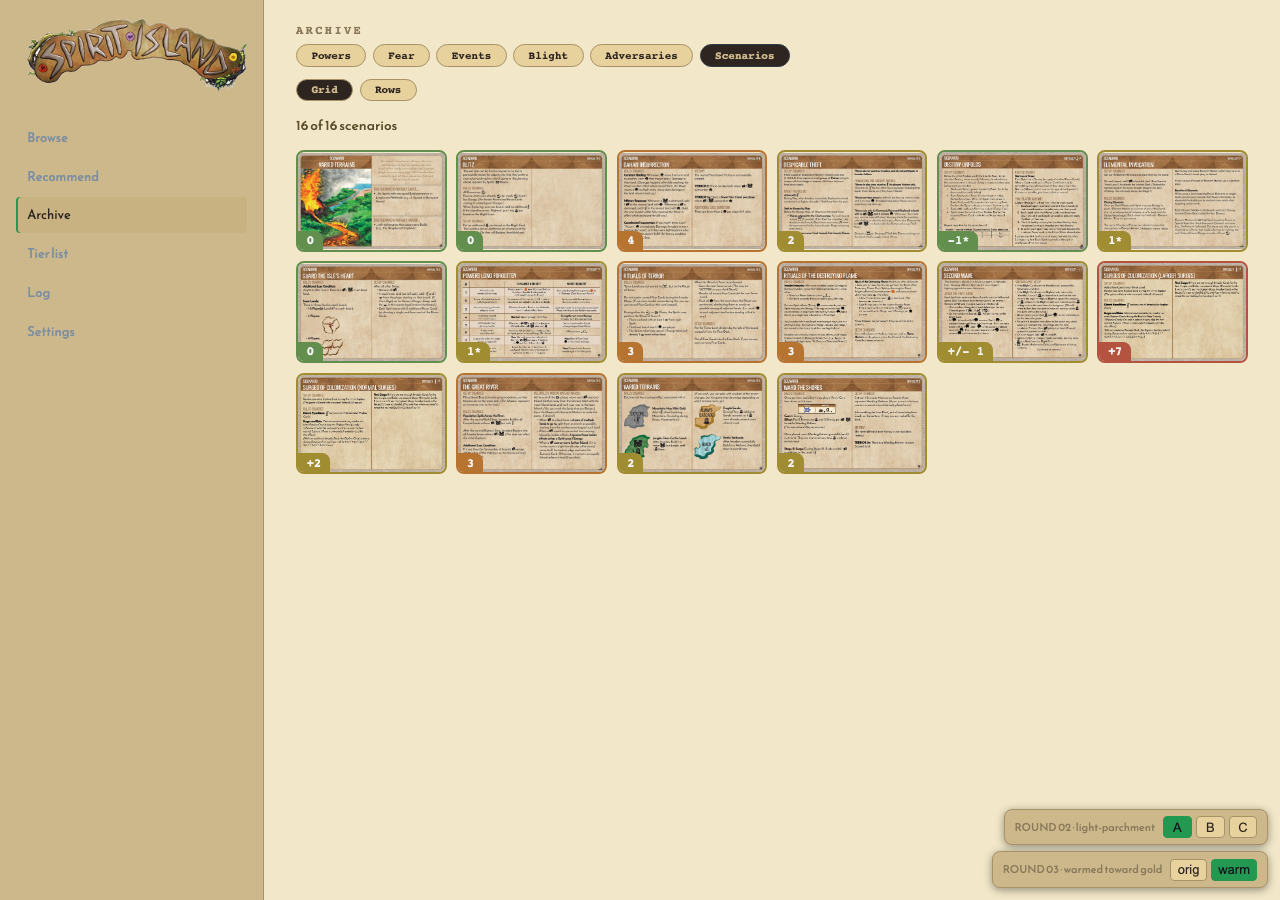
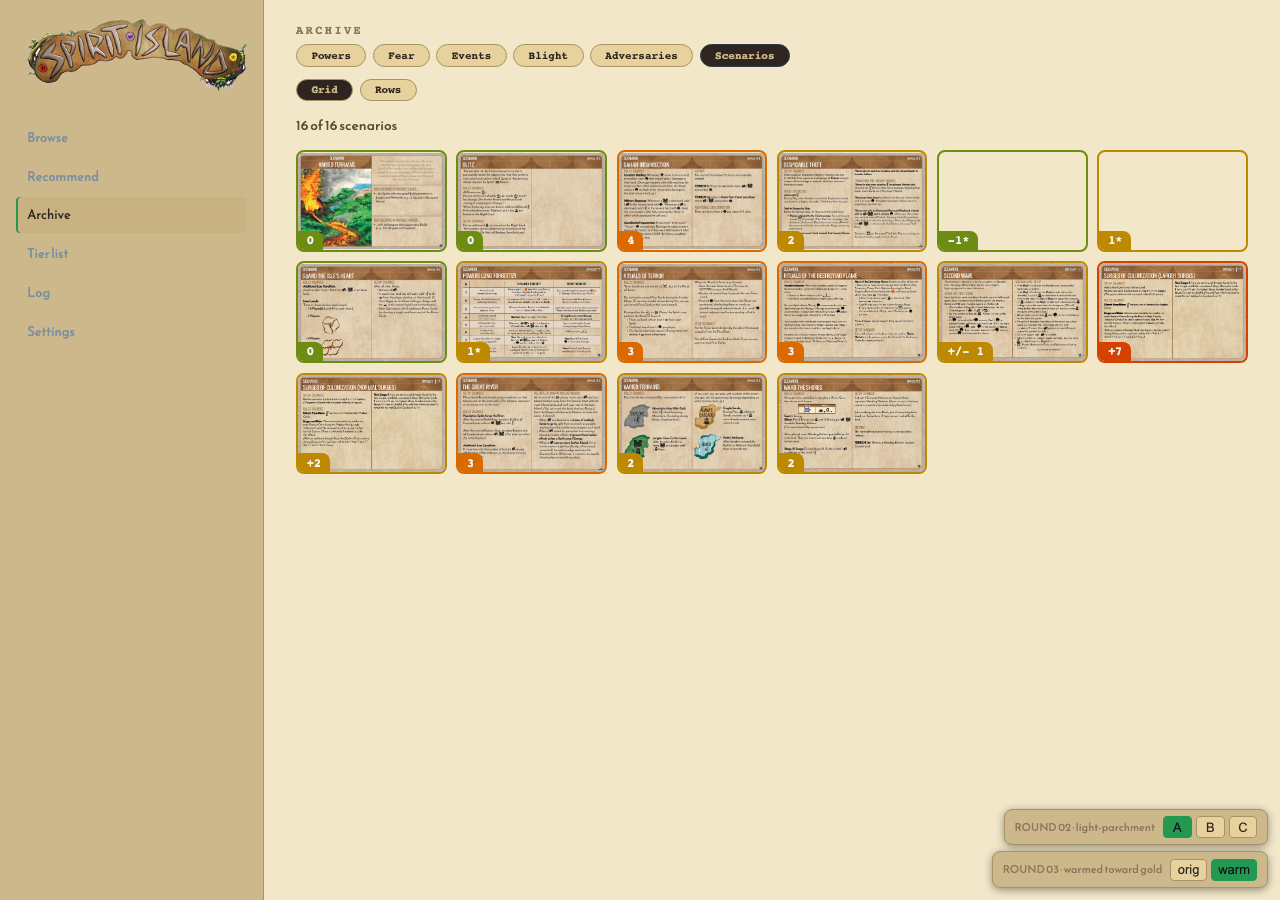
island-retheme #03: push the warm chip re-tint further (v3)
v1 (22% blend toward gold) and v2 (a luminance-preserving fixed push) both
came back too subtle to read as a real change. A bolder multiplicative grade
tried in between actually broke distinctness (blight-positive and
ramping-economy clamped to the same hex). v3 keeps the push additive but much
larger (R+50/G+15/B-50), verified collision-free by direct computation
against every palette in the app, and confirmed visible via zoomed-crop
comparison rather than eyeballing full-page screenshots.

diff --git a/src/components/tagColors.ts b/src/components/tagColors.ts
@@ -39,21 +39,33 @@ export const EXPANSION_COLOR: Record<string, string> = {
 
 /**
  * ROUND 03 (island-retheme) — THROWAWAY: the owner's reaction to the light-parchment theme
- * (ticket 02) was that the chip systems don't feel aligned with it. Judgment values, every entry
- * the same colour mixed 22% toward the vibe sheet's `gold` (`#eecb73`) — warms and slightly
- * desaturates each hue without moving its rank in the family, so the seven stay pairwise-distinct
- * (verified in `chipRoundColors.test.ts`) without becoming a fresh, unrelated palette. Delete this
- * and every other `*_WARM` map/getter below, plus `chips-${variant}` call sites, when the round
- * ships or is abandoned (see `ChipRound.tsx`'s docblock for the full teardown list).
+ * (ticket 02) was that the chip systems don't feel aligned with it. **v3** — two earlier attempts
+ * didn't land: v1 blended every hue 22% toward the vibe sheet's `gold` (`#eecb73`) and the owner
+ * reported it as indistinguishable from the shipped palette at a glance; a v2 fixed push
+ * (`R+28/G+6/B-26`, tuned to hold luminance dead level) was still too shy. A *multiplicative*
+ * bold grade tried in between (×1.35 red, ×0.5 blue) actually broke — `blight-positive` and
+ * `ramping-economy` clamp to the exact same hex once boosted that hard, since their only
+ * difference is a red channel that both saturate past 255. v3 keeps the *additive* push (order-
+ * preserving, no clamp-collision risk) but goes considerably further: `R+50 / G+15 / B-50`,
+ * clamped to 0-255. Verified by direct computation, not just by eye: zero collisions against every
+ * shipped palette, the tier rainbow (both variants), `PANEL_COLOR`, and this map's own six systems
+ * (the six `#...` values a naive dedup flags as "duplicate" are `TAG_FALLBACK_PALETTE_WARM`
+ * intentionally reusing `TAG_COLOR_WARM`'s own values — the *shipped* `TAG_FALLBACK_PALETTE` does
+ * the same thing). Luminance moves further this time (~+0.07 average, up from ~+0.03) but stays
+ * within a band that keeps both contrast dependents safe: the white pill-text
+ * (`.card-row-pill`/`.expansion-chip`/`.subtype-chip`) and the outline tag-chip's own colour (its
+ * text/border, read directly against the light-parchment page). Delete this and every other
+ * `*_WARM` map/getter below, plus every `chips-${variant}` call site, when the round ships or is
+ * abandoned (see `ChipRound.tsx`'s docblock for the full teardown list).
  */
 export const EXPANSION_COLOR_WARM: Record<string, string> = {
-  Base: '#6e8085',
-  'Branch & Claw': '#7c8c53',
-  'Feather & Flame': '#a07347',
-  Horizons: '#628c6f',
-  'Jagged Earth': '#94666f',
-  'Nature Incarnate': '#8a733a',
-  Promo: '#7b7378',
+  Base: '#7c7a58',
+  'Branch & Claw': '#8e8918',
+  'Feather & Flame': '#bc6908',
+  Horizons: '#6c893c',
+  'Jagged Earth': '#ac593c',
+  'Nature Incarnate': '#a06900',
+  Promo: '#8c6948',
 }
 
 /** ROUND 03: the direct-index equivalent of `expansionColorFor`, for the callers
@@ -129,15 +141,15 @@ export const CARD_SPEED_COLOR: Record<'Fast' | 'Slow', string> = {
   Slow: '#3a6fa5',
 }
 
-/** ROUND 03 (island-retheme) — THROWAWAY: same 22%-toward-gold mix as `EXPANSION_COLOR_WARM`. */
+/** ROUND 03 (island-retheme) — THROWAWAY: same fixed warm channel push as `EXPANSION_COLOR_WARM`. */
 export const CARD_KIND_COLOR_WARM: Record<'minor' | 'major' | 'unique', string> = {
-  minor: '#88a451',
-  major: '#ac6a82',
-  unique: '#7293a0',
+  minor: '#9da816',
+  major: '#cc5e54',
+  unique: '#81927b',
 }
 export const CARD_SPEED_COLOR_WARM: Record<'Fast' | 'Slow', string> = {
-  Fast: '#be5c49',
-  Slow: '#62839a',
+  Fast: '#e24c0b',
+  Slow: '#6c7e73',
 }
 
 export function cardKindColor(kind: 'minor' | 'major' | 'unique', variant?: 'warm'): string {
@@ -159,13 +171,13 @@ export const SCENARIO_BAND_COLOR = {
   none: 'var(--deck-dim)',
 } as const
 
-/** ROUND 03 (island-retheme) — THROWAWAY: same 22%-toward-gold mix as `EXPANSION_COLOR_WARM`.
+/** ROUND 03 (island-retheme) — THROWAWAY: same fixed warm channel push as `EXPANSION_COLOR_WARM`.
  * `none` already tokenizes via `var(--deck-dim)` and needs no warm override. */
 export const SCENARIO_BAND_COLOR_WARM = {
-  low: '#628e4e',
-  mid: '#a08c31',
-  high: '#b77431',
-  top: '#b45440',
+  low: '#6c8c12',
+  mid: '#bc8900',
+  high: '#da6a00',
+  top: '#d54100',
   none: 'var(--deck-dim)',
 } as const
 
@@ -260,22 +272,22 @@ export function subtypeLabel(tag: FearTag | BlightTag | EventClass): string {
   return SUBTYPE_LABEL[tag]
 }
 
-/** ROUND 03 (island-retheme) — THROWAWAY: same 22%-toward-gold mix as `EXPANSION_COLOR_WARM`. */
+/** ROUND 03 (island-retheme) — THROWAWAY: same fixed warm channel push as `EXPANSION_COLOR_WARM`. */
 const SUBTYPE_COLOR_WARM: Record<FearTag | BlightTag | EventClass, string> = {
-  removal: '#cc5a63',
-  defensive: '#6298b1',
-  weaken: '#b65ab1',
-  disruption: '#cc9247',
-  displacement: '#62c485',
-  presenceLoss: '#8a5a31',
-  boardChange: '#a08231',
-  damageBonus: '#bf5a31',
-  resourceSwing: '#628253',
-  choice: '#58826f',
-  stage: '#7e7685',
-  terrorLevel: '#a05153',
-  healthyBlightedLand: '#6e983d',
-  adversary: '#8a6685',
+  removal: '#f4492c',
+  defensive: '#6c9990',
+  weaken: '#d84990',
+  disruption: '#f49108',
+  displacement: '#6cd158',
+  presenceLoss: '#a04900',
+  boardChange: '#bc7d00',
+  damageBonus: '#e44900',
+  resourceSwing: '#6c7d18',
+  choice: '#607d3c',
+  stage: '#906d58',
+  terrorLevel: '#bc3d18',
+  healthyBlightedLand: '#7c9900',
+  adversary: '#a05958',
 }
 
 export function subtypeColor(tag: FearTag | BlightTag | EventClass, variant?: 'warm'): string {
@@ -297,22 +309,22 @@ export const TAG_COLOR: Record<string, string> = {
 }
 const TAG_FALLBACK_PALETTE = ['#e0475a', '#3f9de0', '#4fb84a', '#e0862f', '#8a5ce0', '#2fb8c4']
 
-/** ROUND 03 (island-retheme) — THROWAWAY: same 22%-toward-gold mix as `EXPANSION_COLOR_WARM`,
+/** ROUND 03 (island-retheme) — THROWAWAY: same fixed warm channel push as `EXPANSION_COLOR_WARM`,
  * including the fallback palette so a future tag not yet in `TAG_COLOR` still warms consistently. */
 const TAG_COLOR_WARM: Record<string, string> = {
-  aggressive: '#e36460',
-  'blight-positive': '#e3953e',
-  'blight-sensitive': '#dab83e',
-  'board-control': '#66a7c8',
-  coastal: '#59bcb2',
-  'dahan-synergy': '#72bc53',
-  'fast-tempo': '#e36495',
-  'fear-focused': '#a074c8',
-  incarnate: '#7cdb9c',
-  'ramping-economy': '#c4953e',
-  'token-heavy': '#7c8cc8',
+  aggressive: '#ff5628',
+  'blight-positive': '#ff9500',
+  'blight-sensitive': '#ffc200',
+  'board-control': '#71acae',
+  coastal: '#61c792',
+  'dahan-synergy': '#81c718',
+  'fast-tempo': '#ff566c',
+  'fear-focused': '#bc6bae',
+  incarnate: '#8eef76',
+  'ramping-economy': '#ea9500',
+  'token-heavy': '#8e89ae',
 }
-const TAG_FALLBACK_PALETTE_WARM = ['#e36460', '#66a7c8', '#72bc53', '#e3953e', '#a074c8', '#59bcb2']
+const TAG_FALLBACK_PALETTE_WARM = ['#ff5628', '#71acae', '#81c718', '#ff9500', '#bc6bae', '#61c792']
 
 function hashString(s: string): number {
   let h = 0

diff --git a/.scratch/island-retheme/issues/03-chip-system-adaptation.md b/.scratch/island-retheme/issues/03-chip-system-adaptation.md
@@ -46,11 +46,25 @@ Behind `?theme=A&chips=original|warm` on any tab (a second switcher stacks under
 theme switcher, bottom-right):
 
 - **original**: every chip system exactly as shipped today (dark-tuned hues, unchanged).
-- **warm**: every value in `EXPANSION_COLOR`, `TAG_COLOR`, `CARD_KIND_COLOR`, `CARD_SPEED_COLOR`,
-  `SCENARIO_BAND_COLOR`, and `SUBTYPE_COLOR` mixed 22% toward the vibe sheet's `gold` (`#eecb73`)
-  — warms and slightly desaturates each hue without moving its rank in the family, so every
-  system stays pairwise-distinct (a new `chipRoundColors.test.ts` pins the warm values apart from
-  each other and from every shipped palette, the tier rainbow, and `PANEL_COLOR`).
+- **warm** (v3): every value in `EXPANSION_COLOR`, `TAG_COLOR`, `CARD_KIND_COLOR`,
+  `CARD_SPEED_COLOR`, `SCENARIO_BAND_COLOR`, and `SUBTYPE_COLOR` pushed by a fixed
+  `R+50 / G+15 / B-50` channel shift, clamped to 0-255 (a new `chipRoundColors.test.ts` pins the
+  warm values apart from each other and from every shipped palette, the tier rainbow, and
+  `PANEL_COLOR`).
+
+  Two earlier attempts didn't land, both recorded in `tagColors.ts`'s comment for whoever reopens
+  this: **v1** (22% blend toward the vibe sheet's `gold`) came back from the owner as
+  indistinguishable from the shipped palette at a glance. **v2** (a gentler `R+28/G+6/B-26` fixed
+  push, deliberately tuned to hold luminance dead level for contrast safety) was still too shy. A
+  bolder *multiplicative* grade tried in between (`×1.35` red, `×0.5` blue) actually broke —
+  `blight-positive` and `ramping-economy` clamp to the exact same hex once boosted that hard, since
+  their only difference is a red channel both saturate past 255. v3 keeps the push additive (order-
+  preserving, no clamp-collision risk) but goes considerably further, verified collision-free by
+  direct computation against every palette in the app. This is a real, visible shift now (e.g. the
+  Browse tile's "Base" chip moves from blue `#4a6b8a` to olive-khaki `#7c7a58`) — confirmed by
+  zoomed-crop comparison, not just by eye on the full page (at full-page scale the shift still
+  reads as subtle, which is a legitimate finding about how visible any chip-level re-tint can be at
+  that size, not a sign the change isn't real).
 
 `tierColors.ts`'s pastel palette is **left as-is beyond its ticket-02 legibility fix** — those
 seven hues are sampled from the owner's own TierMaker board, not a chip system this repo invented,
